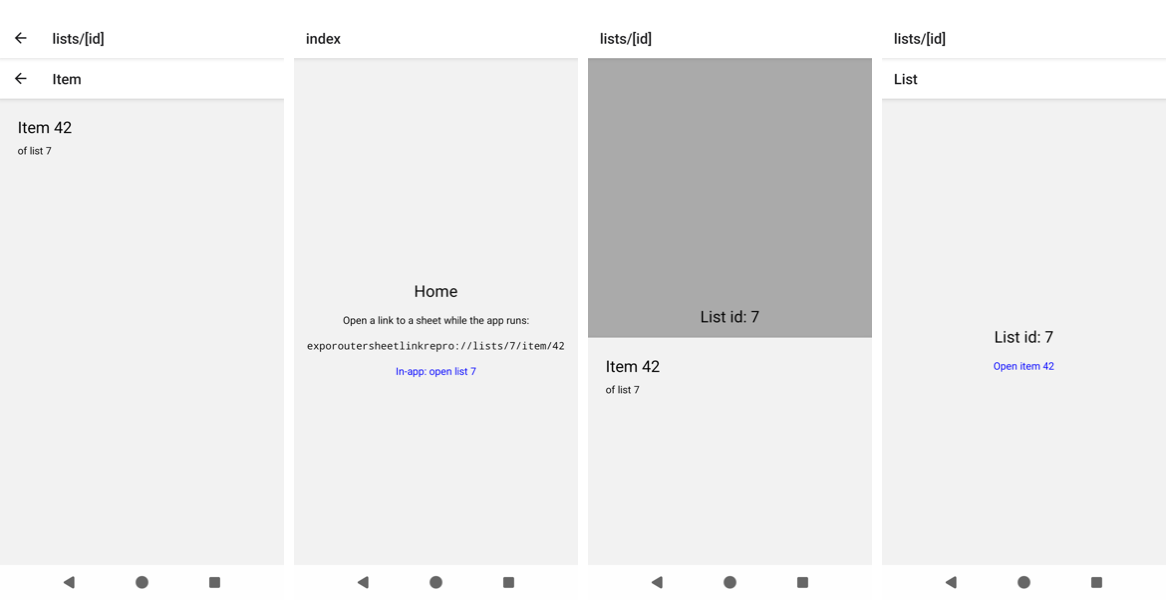
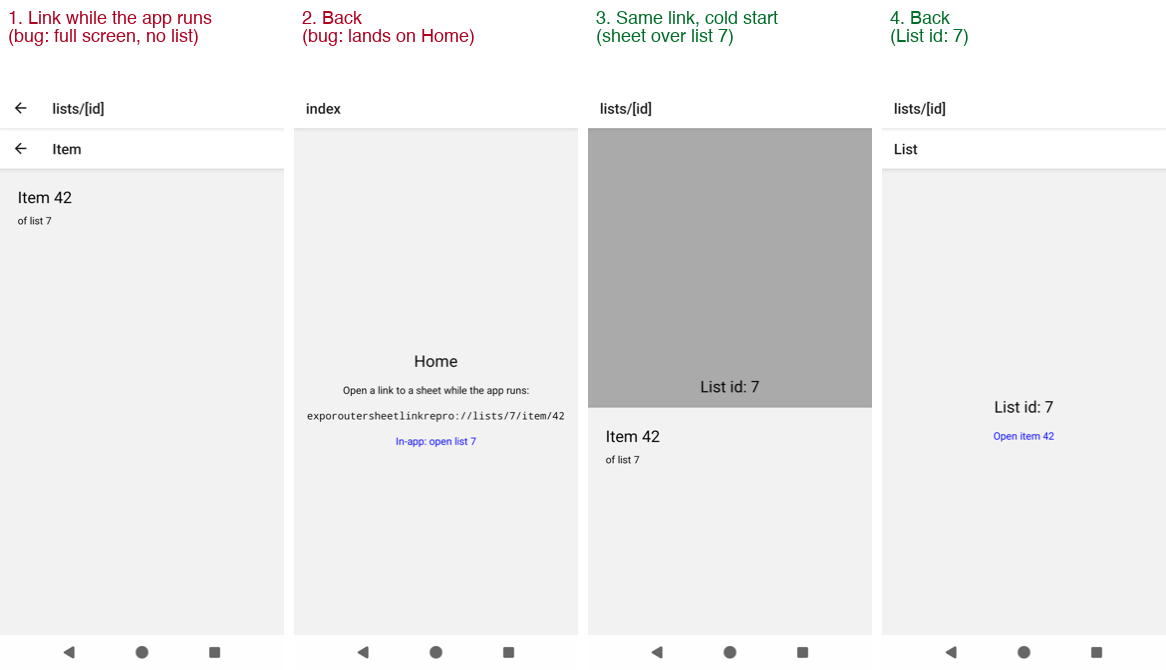
README: clearer Actual section, labeled screenshots

diff --git a/README.md b/README.md
@@ -35,11 +35,11 @@ In both cases the sheet opens over list 7 (the `anchor`), and Back shows "List i
 
 ## Actual
 
-| link while the app runs | Back | cold start | Back |
-|---|---|---|---|
-| the item opens as a full-screen page instead of a sheet, without list 7 beneath it | lands on Home | the sheet opens over list 7 | "List id: 7" |
+Link while the app runs (from Home): the item opens as a full-screen page instead of a sheet, with nothing beneath it. Back lands on Home (screens 1 and 2).
 
-![link while running vs. cold start](shots/compare.png)
+The same link from a cold start works: the sheet opens over list 7, and Back shows "List id: 7" (screens 3 and 4).
+
+![link while the app runs (1, 2) vs. cold start (3, 4)](shots/compare.png)
 
 ## SDK 57
 
